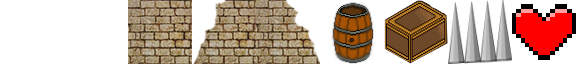
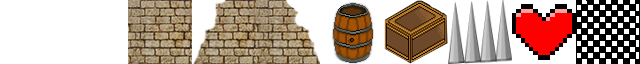
Version finale, good job guys, point d'exclamation

diff --git a/MajabajaGame/MajabajaGame/MajabajaGame/GameStates/LevelSelectState.cs b/MajabajaGame/MajabajaGame/MajabajaGame/GameStates/LevelSelectState.cs
@@ -144,25 +144,25 @@ namespace MajabajaGame
 
                     if (m_level3Button.getField().Contains(new Point(m_mouse.X, m_mouse.Y)))
                     {
-                        m_game.setGameState(new Level1State(m_game));
+                        m_game.setGameState(new Level3State(m_game));
                         MediaPlayer.Stop();
                     }
 
                     if (m_level4Button.getField().Contains(new Point(m_mouse.X, m_mouse.Y)))
                     {
-                        m_game.setGameState(new Level1State(m_game));
+                        m_game.setGameState(new Level4State(m_game));
                         MediaPlayer.Stop();
                     }
 
                     if (m_level5Button.getField().Contains(new Point(m_mouse.X, m_mouse.Y)))
                     {
-                        m_game.setGameState(new Level1State(m_game));
+                        m_game.setGameState(new Level5State(m_game));
                         MediaPlayer.Stop();
                     }
 
                     if (m_level6Button.getField().Contains(new Point(m_mouse.X, m_mouse.Y)))
                     {
-                        m_game.setGameState(new Level1State(m_game));
+                        m_game.setGameState(new Level6State(m_game));
                         MediaPlayer.Stop();
                     }
                 }

diff --git a/MajabajaGame/MajabajaGame/MajabajaGame/GameStates/Level2State.cs b/MajabajaGame/MajabajaGame/MajabajaGame/GameStates/Level2State.cs
@@ -52,12 +52,20 @@ namespace MajabajaGame
         public Level2State(Game1 p_game)
             : base(p_game)
         {
+            resetLevel();
             LoadContent();
         }
 
         public TileMap getObstacleMap()
         {
             return level2Obstacle;
+        }
+
+        public void resetLevel()
+        {
+            Camera.Location.Y = (16 * 128) - 480;
+            Camera.Location.X = 0;
+            Character.resetCharacter();
         }
 
         public override void LoadContent()
@@ -68,6 +76,8 @@ namespace MajabajaGame
 
             //Load Sounds
             magic = m_game.Content.Load<SoundEffect>("spell2");
+            m_life = m_game.Content.Load<SoundEffect>("Life");
+            m_hurt = m_game.Content.Load<SoundEffect>("Hit_Hurt");
 
             // Load Player
             CharacterTile.TileSetTexture = m_game.Content.Load<Texture2D>("character");
@@ -348,6 +358,10 @@ namespace MajabajaGame
                 case (int)obstacleTiles.SPIKE:
                 case (int)obstacleTiles.TRAP:
                     m_game.setGameState(new DeathState(m_game));
+                    break;
+
+                case (int)obstacleTiles.WIN:
+                    m_game.setGameState(new Level2State(m_game));
                     break;
 
                 default:

diff --git a/MajabajaGame/MajabajaGame/MajabajaGame/GameStates/Level1State.cs b/MajabajaGame/MajabajaGame/MajabajaGame/GameStates/Level1State.cs
@@ -13,7 +13,7 @@ using Microsoft.Xna.Framework.Audio;
 namespace MajabajaGame
 {
 
-    enum obstacleTiles : int { NOTHING =0, INVISIBLEFLOORING, FLOORING, LEFTFLOOR, RIGHTFLOOR, BARREL ,CRATE, SPIKE, HEART, TRAP = 9 };
+    enum obstacleTiles : int { NOTHING =0, INVISIBLEFLOORING, FLOORING, LEFTFLOOR, RIGHTFLOOR, BARREL ,CRATE, SPIKE, HEART, TRAP = 9, WIN };
 
     class Level1State : AbstractGameState
     {
@@ -363,6 +363,10 @@ namespace MajabajaGame
                 case (int)obstacleTiles.SPIKE:
                 case (int)obstacleTiles.TRAP:
                     m_game.setGameState(new DeathState(m_game));
+                    break;
+
+                case (int)obstacleTiles.WIN:
+                    m_game.setGameState(new Level2State(m_game));
                     break;
 
                 default:

diff --git a/MajabajaGame/MajabajaGame/MajabajaGame/GameStates/DeathState.cs b/MajabajaGame/MajabajaGame/MajabajaGame/GameStates/DeathState.cs
@@ -101,7 +101,7 @@ namespace MajabajaGame
 
                                 if (m_rageQuitButton.getField().Contains(new Point((int)gesture.Position.X, (int)gesture.Position.Y)))
                                 {
-                                    m_game.Exit();
+                                    m_game.setGameState(new MainMenuState(m_game));
                                 }
                             }
                             break;

diff --git a/MajabajaGame/MajabajaGame/MajabajaGame/GameObjects/LifeBar.cs b/MajabajaGame/MajabajaGame/MajabajaGame/GameObjects/LifeBar.cs
@@ -30,7 +30,7 @@ namespace MajabajaGame
         {
             m_isEmpty = false;
             m_heartLimit = p_heartLimit;
-            m_nbHearts = p_heartLimit -1;
+            m_nbHearts = p_heartLimit;
 
             // Hard Coded Lifebar location
             m_heartPosition = new Vector2(0, 20);
